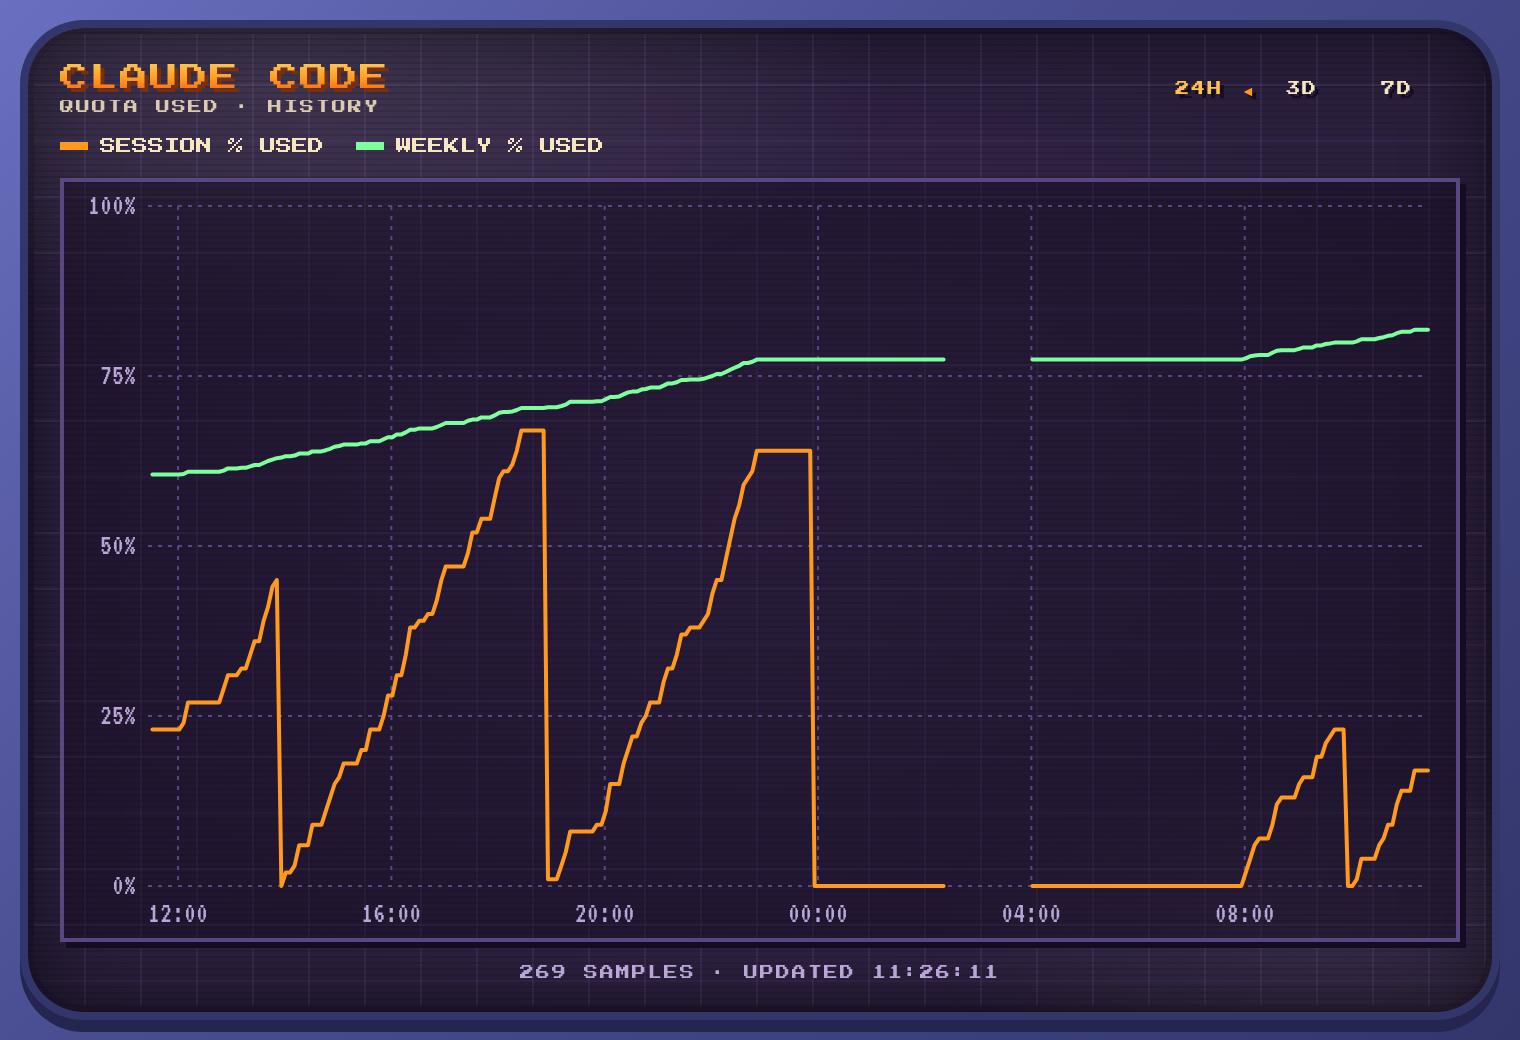
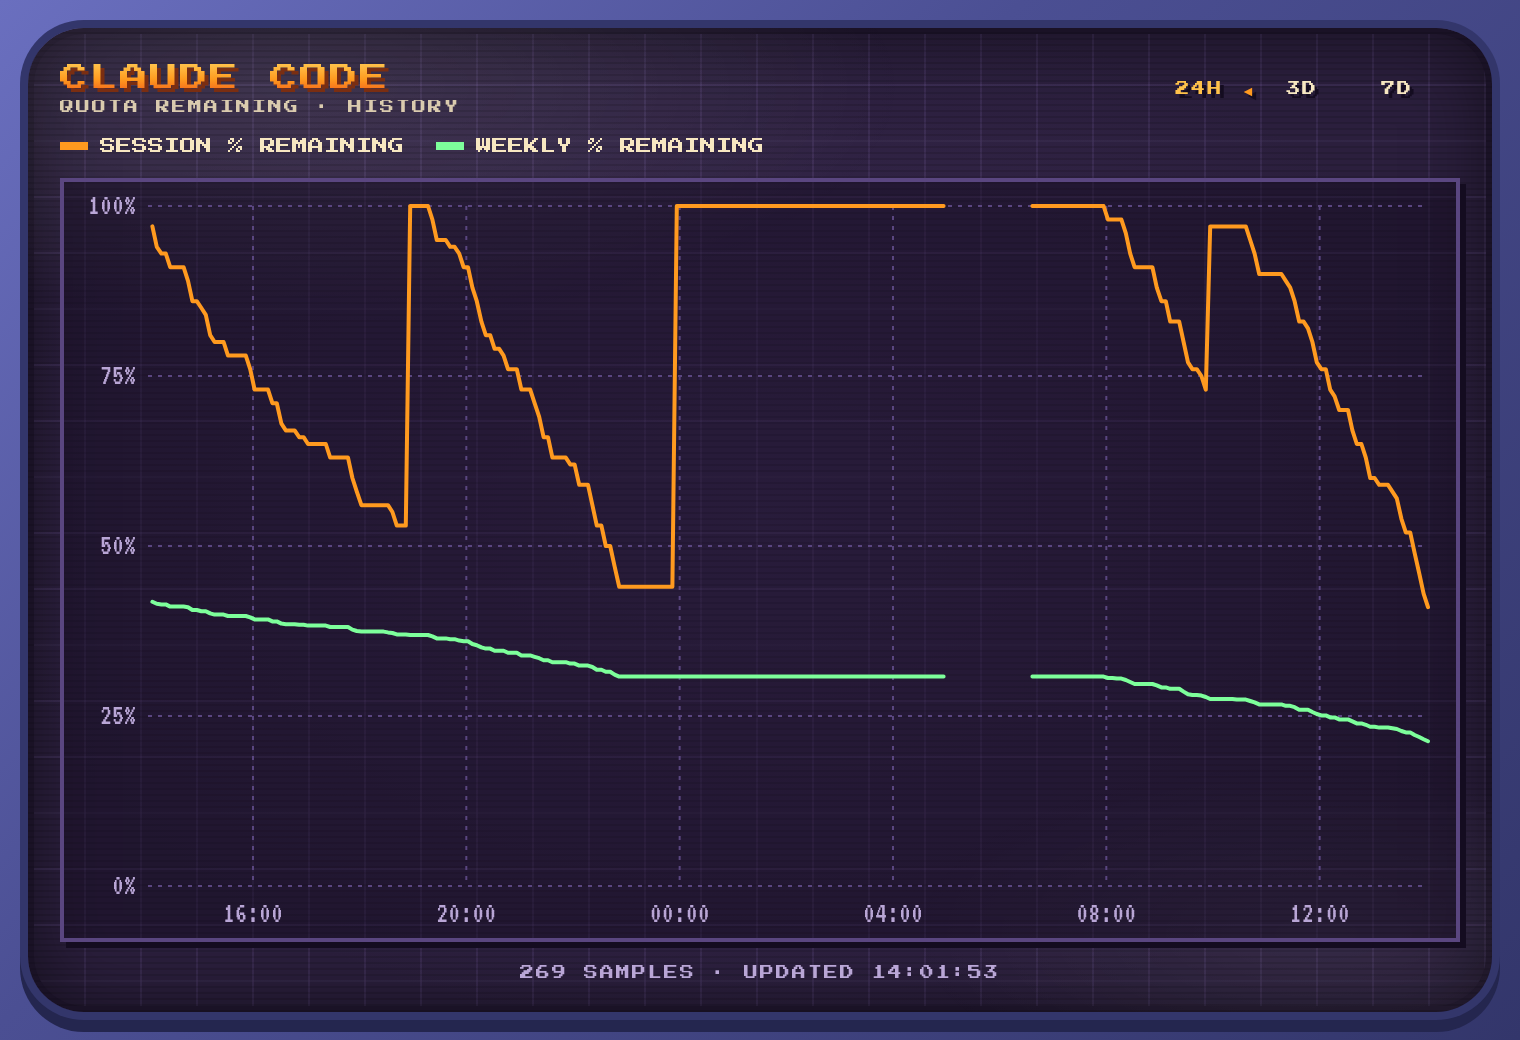
fix(history): chart remaining quota instead of used
The history window now plots % remaining for session and weekly quotas,
matching the cards. Samples are still stored as % used and converted at
render time. README screenshots regenerated.

Claude-Session: https://claude.ai/code/session_018r5JAHApLvtHonJazk9Gf7

diff --git a/src/renderer/src/HistoryView.tsx b/src/renderer/src/HistoryView.tsx
@@ -15,6 +15,9 @@ const SERIES: { id: Series; label: string }[] = [
   { id: "weekly", label: "Weekly" }
 ];
 
+const remaining = (used: number | null): number | null =>
+  used === null ? null : Math.min(100, Math.max(0, 100 - used));
+
 const PAD = { top: 12, right: 14, bottom: 26, left: 42 };
 
 export function HistoryView({ provider }: { provider: string }) {
@@ -45,14 +48,17 @@ export function HistoryView({ provider }: { provider: string }) {
 
   const range = RANGES.find((r) => r.id === rangeId) ?? RANGES[2];
   const from = now - range.ms;
-  const samples = (data?.samples ?? []).filter((s) => s.t >= from);
+  // Samples store % used; the chart shows % remaining, like the cards.
+  const samples = (data?.samples ?? [])
+    .filter((s) => s.t >= from)
+    .map((s) => ({ ...s, session: remaining(s.session), weekly: remaining(s.weekly) }));
 
   return (
     <main className="usage history">
       <header className="history-head">
         <div className="brand-text history-title">
           <h1>{(data?.label ?? provider).toUpperCase()}</h1>
-          <span className="tagline">QUOTA USED · HISTORY</span>
+          <span className="tagline">QUOTA REMAINING · HISTORY</span>
         </div>
         <div className="range" role="group" aria-label="Time range">
           {RANGES.map((r) => (
@@ -73,7 +79,7 @@ export function HistoryView({ provider }: { provider: string }) {
         {SERIES.map((s) => (
           <span key={s.id} className="legend-item">
             <span className={`swatch swatch-${s.id}`} aria-hidden />
-            {s.label} % used
+            {s.label} % remaining
           </span>
         ))}
       </div>
@@ -132,7 +138,7 @@ function Chart({ samples, from, to }: { samples: UsageSample[]; from: number; to
           width={width}
           height={height}
           role="img"
-          aria-label="Session and weekly quota used over time"
+          aria-label="Session and weekly quota remaining over time"
           onPointerMove={onMove}
           onPointerLeave={() => setHover(-1)}
         >
